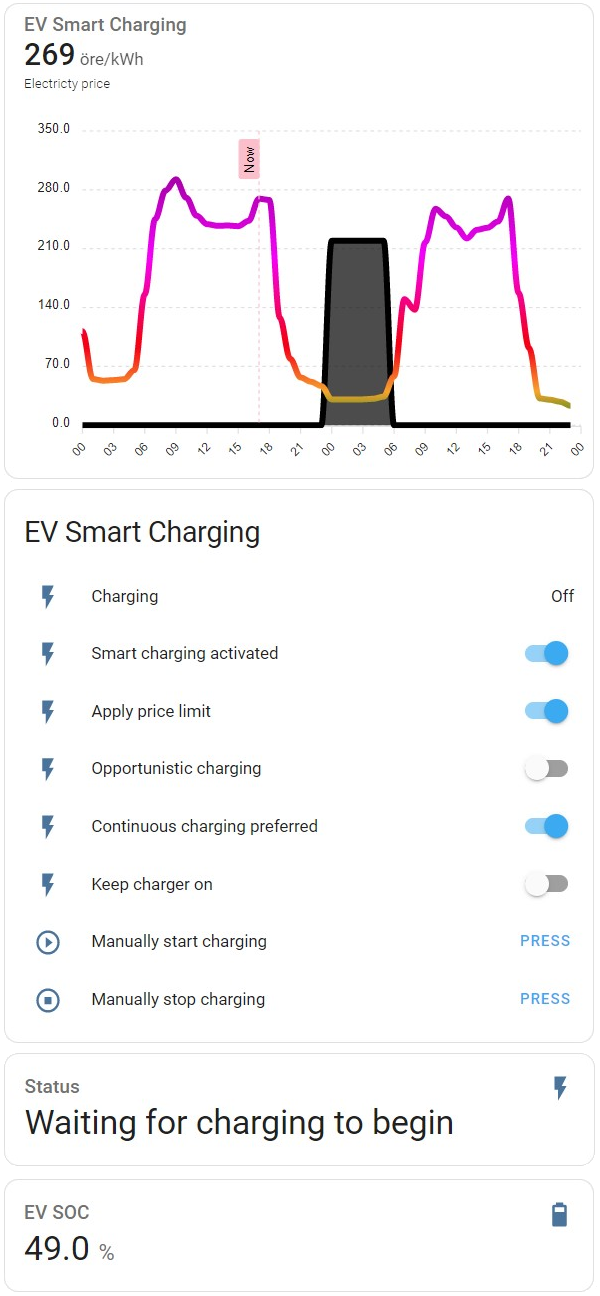
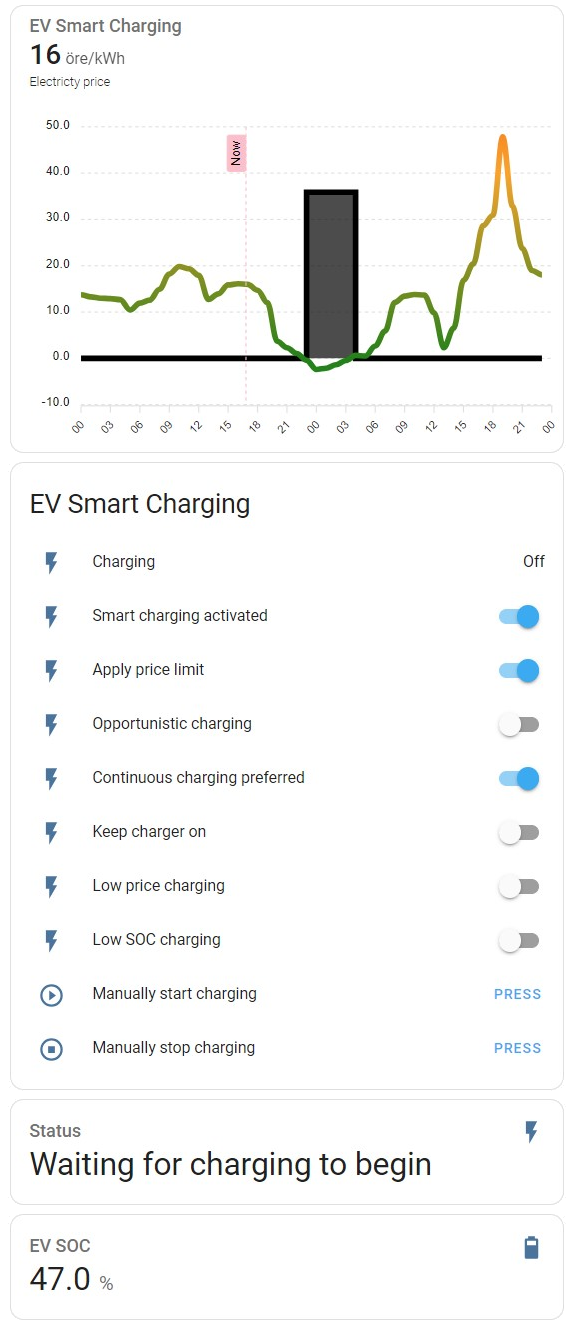
Updated readme.md

diff --git a/README.md b/README.md
@@ -93,8 +93,8 @@ Entity | Type | Description
 `switch.ev_smart_charging_smart_charging_activated` | Switch | Turns the EV Smart Charging integration on and off.
 `switch.ev_smart_charging_apply_price_limit` | Switch | Applies the price limit.
 `switch.ev_smart_charging_opportunistic_charging` | Switch | Activates opportunistic charging. See the desciption of the configuration entity`number.ev_smart_charging_opportunistic_level`. This feature requires the feature `Electricity price limit` to be on.
-`switch.ev_smart_charging_low_soc_charging` | Switch | Activates charging immediately if the EV SOC is lower than a configured level.
-`switch.ev_smart_charging_low_price_charging` | Switch | Activates charging immediately if the electricity price is lower than a configured level.
+`switch.ev_smart_charging_low_soc_charging` | Switch | Activates charging immediately if the EV SOC is lower than a configured level. It is highly recommended to create an automation that controls `switch.ev_smart_charging_ev_connected` if this switch is set to on. Note that this charging is not shown as a scheduled charging. A typical use case is to charge the EV directly when returning home to a minimum level, and then do a complete charging using the scheduled charging when the price is lowest.
+`switch.ev_smart_charging_low_price_charging` | Switch | Activates charging immediately if the electricity price is lower than a configured level. It is highly recommended to create an automation that controls `switch.ev_smart_charging_ev_connected` if this switch is set to on. Note that this charging is not shown as a scheduled charging.
 `switch.ev_smart_charging_continuous_charging_preferred` | Switch | If turned on, will as basis schedule one continuous charging session. If turned off, will schedule charging on the hours with lowest electricity price, even if they are not continuous.
 `switch.ev_smart_charging_keep_charger_on` | Switch | If "on", the `sensor.ev_smart_charging_charging` will not turn off after completed charge cycle. The feature is intended to enable preconditioning before departure, i.e., preheating/cooling can be done from the power grid instead of the battery. If this option is used, the feature `Electricity price limit` will be turned off, and vice versa. *NOTE* It is required that `switch.ev_smart_charging_ev_connected` is controlled in a proper way in order for this feature to work. Also, there is an assumption made that the EV itself will stop its charging when reaching the target SOC.
 `switch.ev_smart_charging_ev_connected` | Switch | Tells the integration that the EV is connected to the charger. Is preferable controlled by automations (see example below). Can avoid problems occuring when the EV is not connected to the charger at the time the charging should start. Using it will also ensure that the `sensor.ev_smart_charging_charging` is set to "off" when the EV is not connected to the charger.
@@ -228,6 +228,10 @@ cards:
         name: Continuous charging preferred
       - entity: switch.ev_smart_charging_keep_charger_on
         name: Keep charger on
+      - entity: switch.ev_smart_charging_low_price_charging
+        name: Low price charging
+      - entity: switch.ev_smart_charging_low_soc_charging
+        name: Low SOC charging
       - entity: button.ev_smart_charging_manually_start_charging
         name: Manually start charging
       - entity: button.ev_smart_charging_manually_stop_charging
